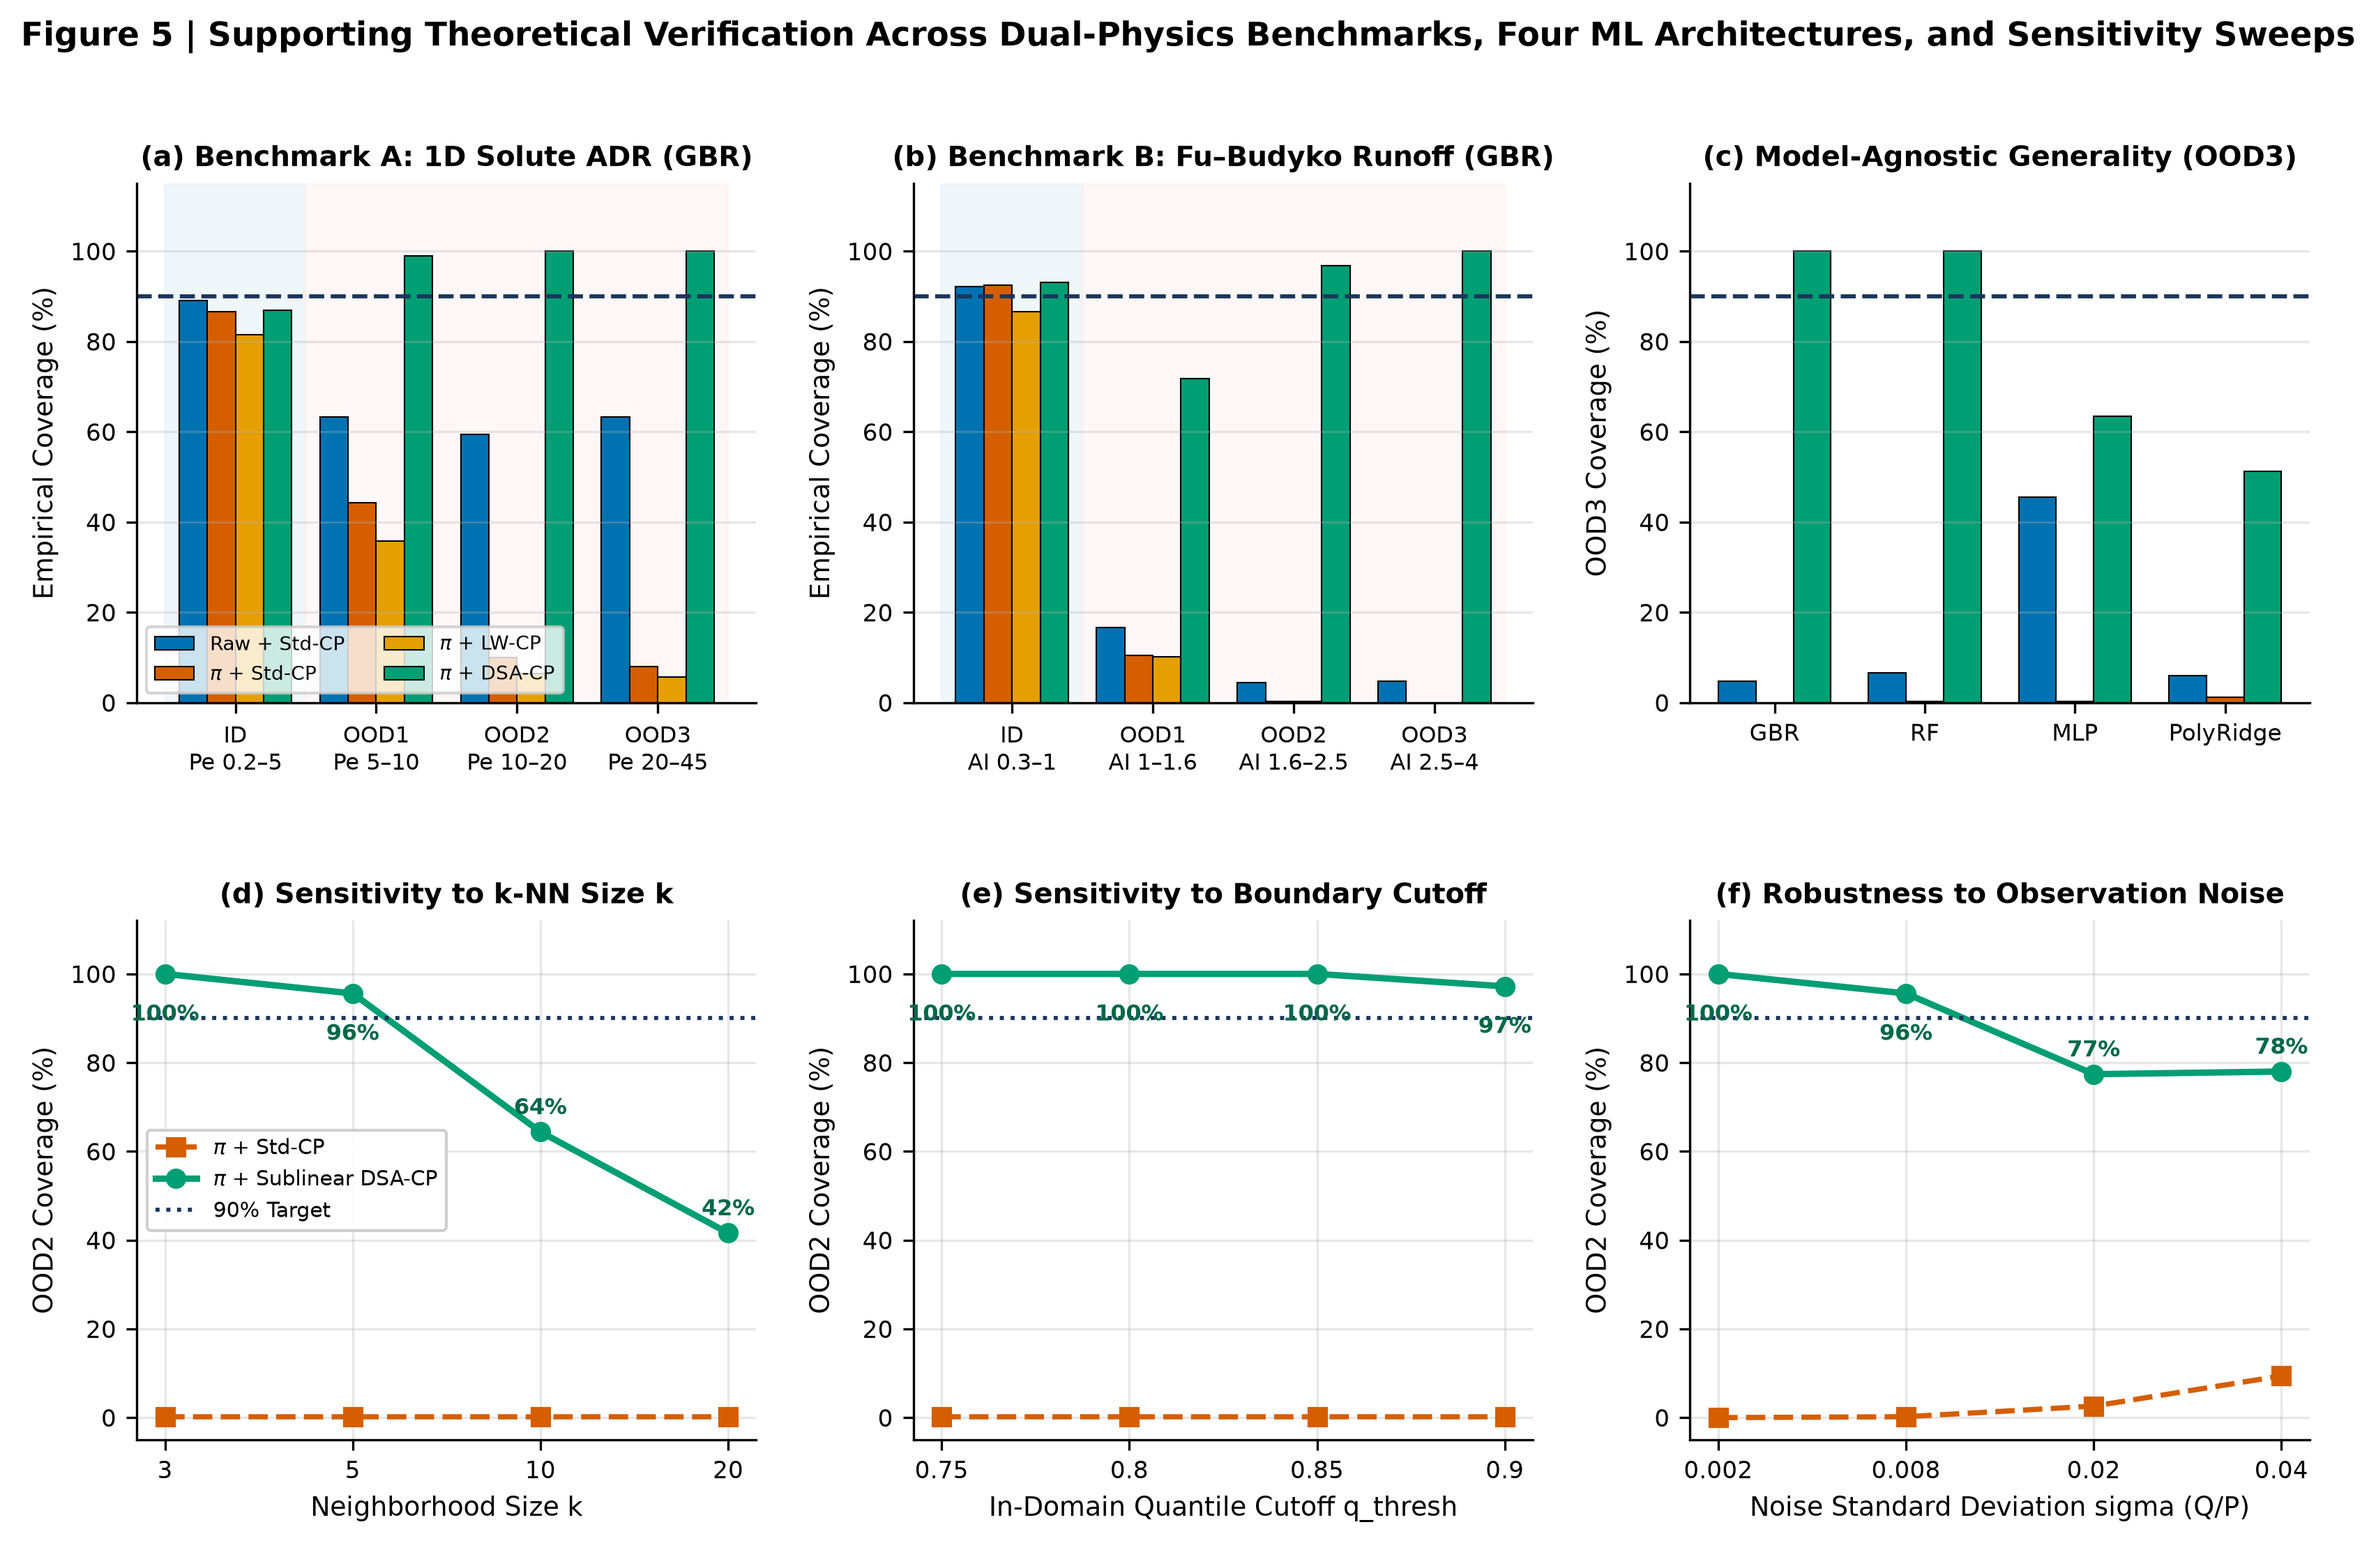
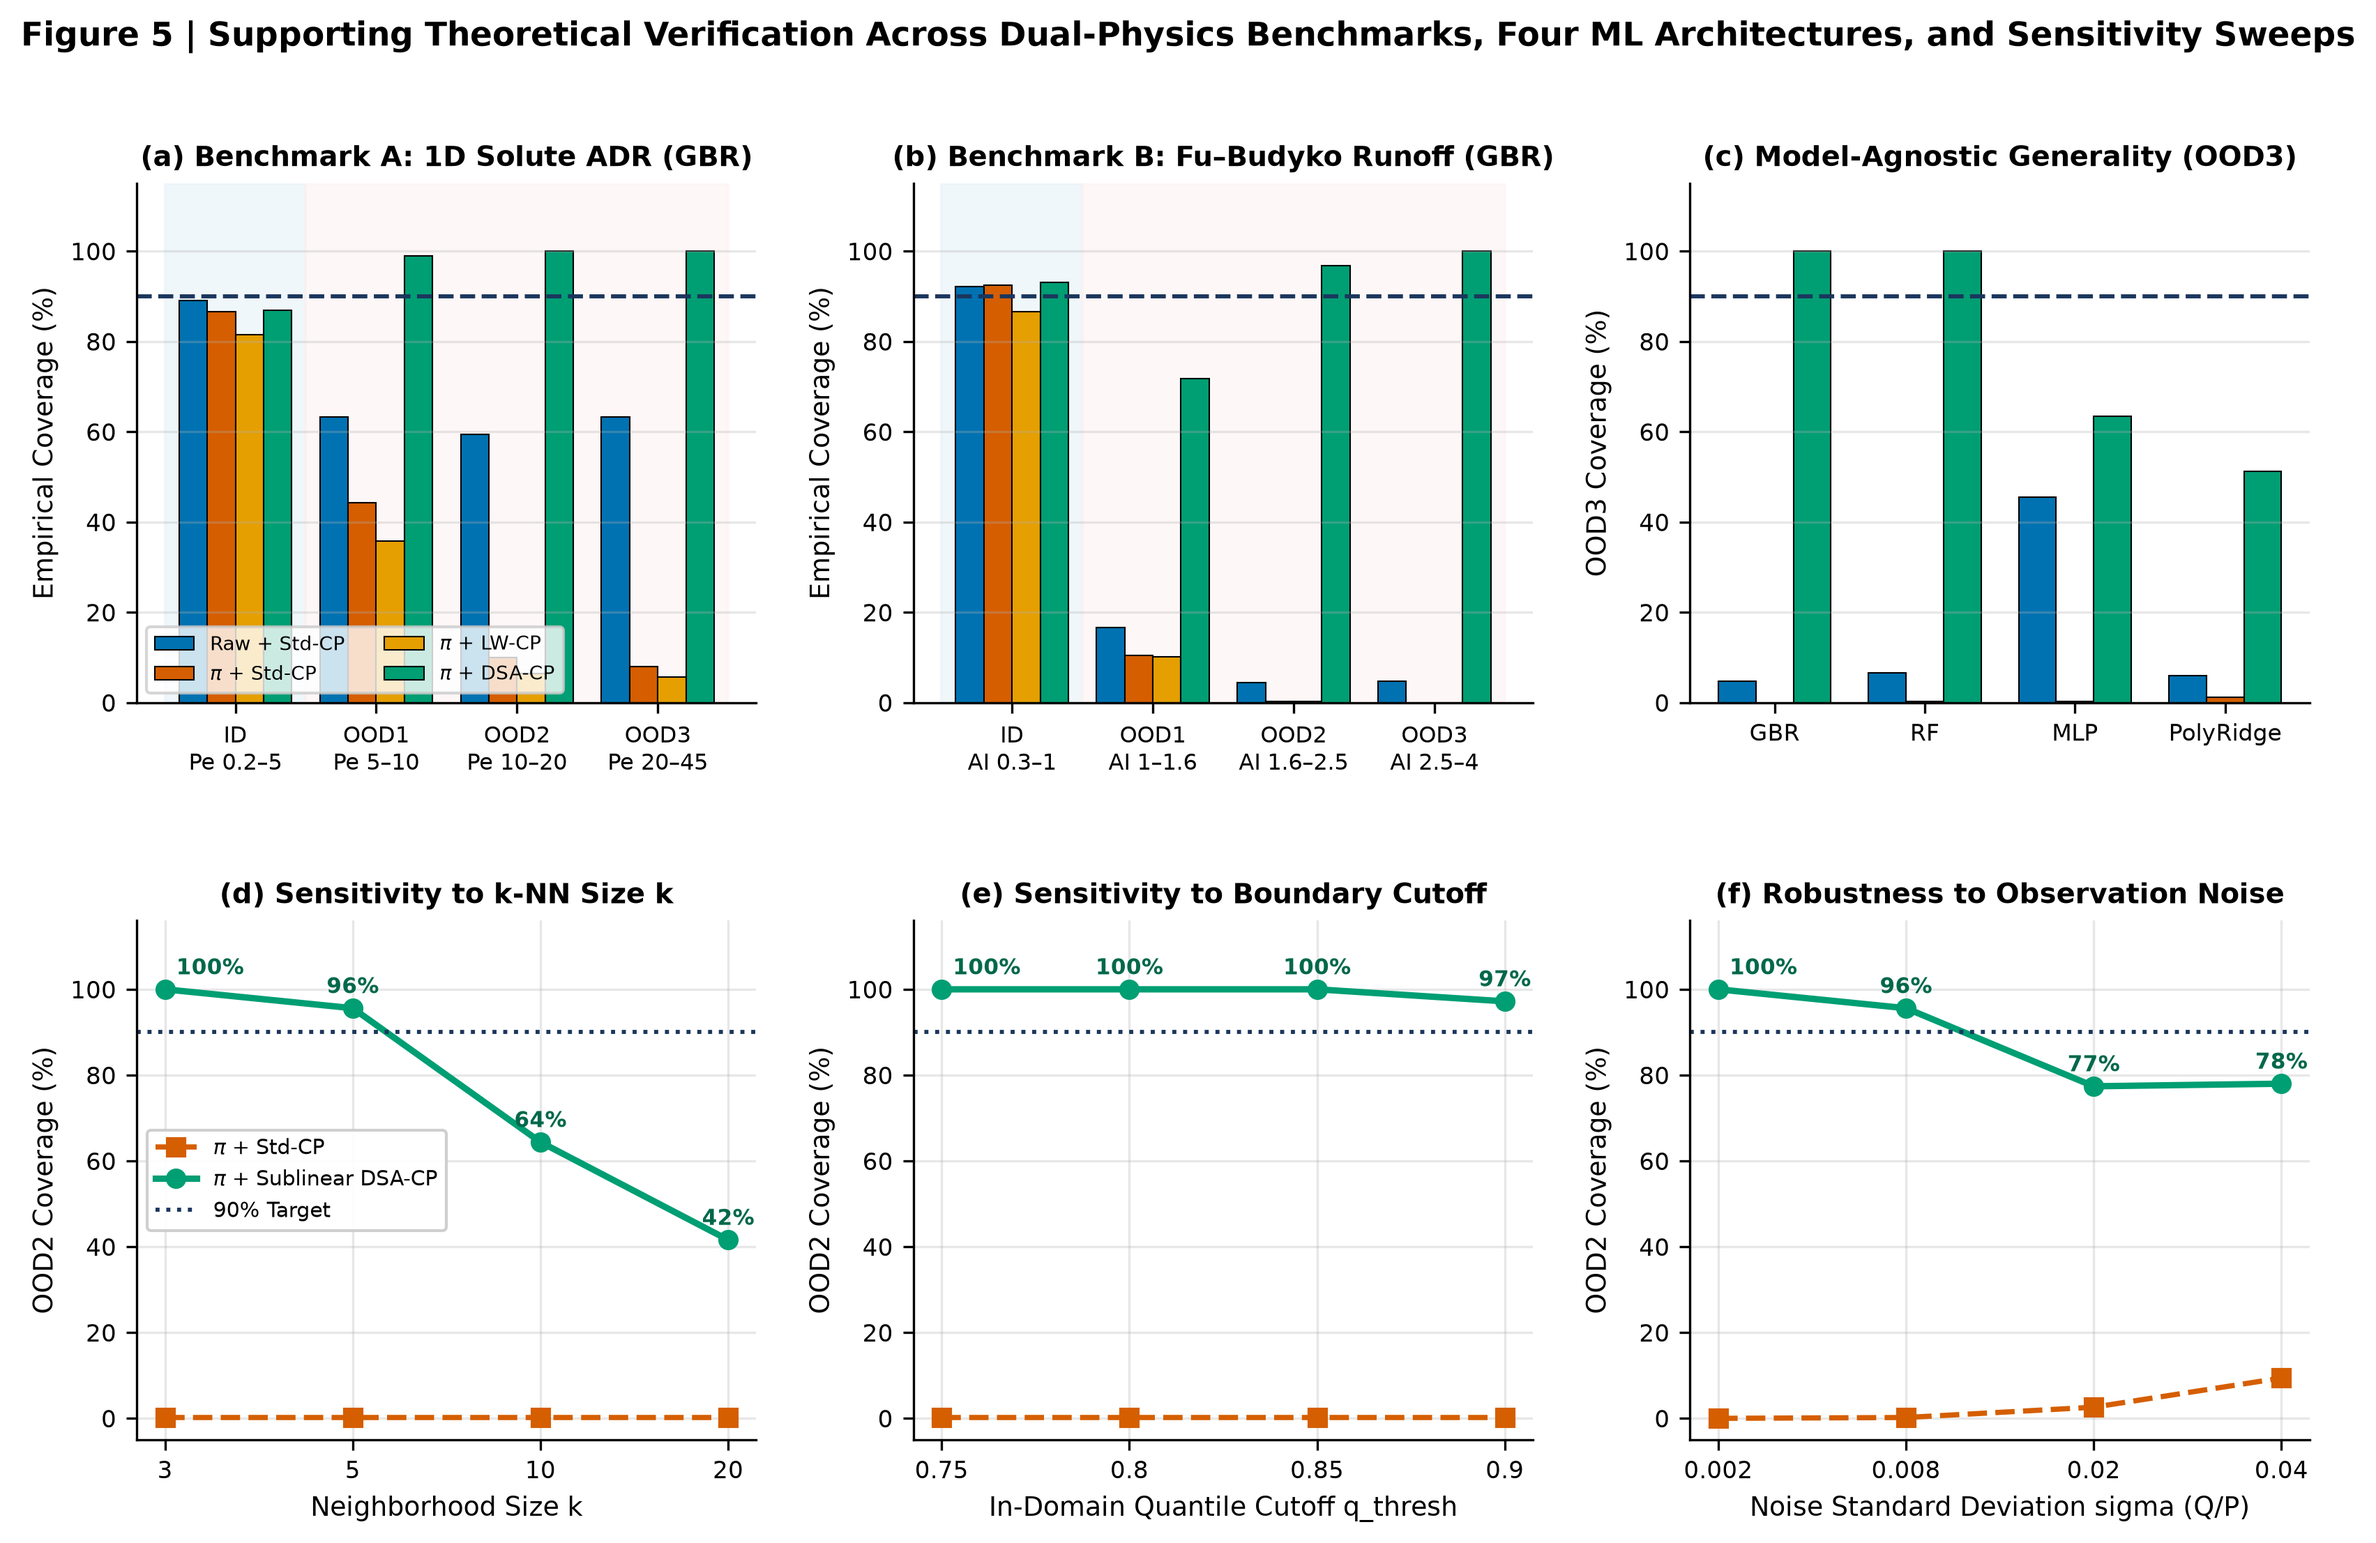
Refine figure labels, symbols, and quantile annotations

diff --git a/scripts/plot_main_figures.py b/scripts/plot_main_figures.py
@@ -109,7 +109,7 @@ def make_fig1_workflow(out_dir):
     for x_r in [6.15, 7.35, 8.55]:
         ax_a.annotate("", xy=(x_r, 3.08), xytext=(x_r, 4.25), arrowprops=dict(arrowstyle="->,head_width=0.18", lw=1.4, color=C_BLUE))
         ax_a.annotate("", xy=(x_r + 0.38, 4.35), xytext=(x_r + 0.38, 3.08), arrowprops=dict(arrowstyle="->,head_width=0.18", lw=1.4, color=C_RED, ls="--"))
-    ax_a.text(7.54, 4.52, "Summer P_t & ET0_t in Phase\n(Descriptive Seasonality SI_WL > 0.26)", ha="center", fontsize=6.5, fontweight="bold", color="#9C4221")
+    ax_a.text(7.54, 4.52, "Summer P_t & E_{p,t} in Phase\n(Descriptive Seasonality SI_WL > 0.26)", ha="center", fontsize=6.5, fontweight="bold", color="#9C4221")
     ax_a.text(7.54, 2.32, "Fast Within-Year Depletion\n(Delta S_t ~ 0)", ha="center", fontsize=6.6, fontweight="bold", color="#744210")
     ax_a.text(7.54, 0.78, "Annual Closure: Q_t/P_t ~ B(AI_t)\nPlains Regional Coverage = 93.6% (n=36)", ha="center", fontsize=6.4,
               bbox=dict(boxstyle="round,pad=0.18", facecolor="white", edgecolor=C_ORANGE, lw=0.9))
@@ -128,14 +128,14 @@ def make_fig1_workflow(out_dir):
     q_ijs_vis = q_c_vis * np.sqrt(1.0 + 1.8 * np.maximum(0, ai_x - 0.85)) + 0.16 * (1.0 / (1.0 + np.exp(-(ai_x - 0.95) * 4.5)))
 
     ax_b.fill_between(ai_x, surrogate_curve - q_ijs_vis, surrogate_curve + q_ijs_vis, color=C_TEAL, alpha=0.24, label="Reduced Pi* + IJS-CP (97.1% Cov, IS=0.764)")
-    ax_b.fill_between(ai_x, surrogate_curve - q_r_vis, surrogate_curve + q_r_vis, color=C_BLUE, alpha=0.18, label="Raw (P, ET0) + Std-CP (Wide q_raw = 0.340)")
-    ax_b.fill_between(ai_x, surrogate_curve - q_c_vis, surrogate_curve + q_c_vis, color=C_RED, alpha=0.38, label="Reduced Pi* + Std-CP (Compressed q_comp = 0.214)")
+    ax_b.fill_between(ai_x, surrogate_curve - q_r_vis, surrogate_curve + q_r_vis, color=C_BLUE, alpha=0.18, label="Raw (P, E_p) + Std-CP (Wide q_raw = 0.347)")
+    ax_b.fill_between(ai_x, surrogate_curve - q_c_vis, surrogate_curve + q_c_vis, color=C_RED, alpha=0.38, label="Reduced Pi* + Std-CP (Compressed q_comp = 0.208)")
 
     ax_b.plot(ai_x, true_curve, color="black", lw=2.3, label="True Shifted Process M*(Pi*) + Carry-Over")
     ax_b.plot(ai_x, surrogate_curve, color=C_RED, ls="--", lw=1.9, label="In-Domain Trained Surrogate f_hat(Pi*)")
 
     ax_b.annotate(
-        "Proposition 1 (Order-Stat Quantiles):\nPhysical completion shrinks ID\ncalibration quantile by 37%–48%\n(q_m0h=0.170, q_comp=0.214 < q_raw=0.340)",
+        "Proposition 1 (Order-Stat Quantiles):\nPhysical completion shrinks ID\ncalibration quantile by 37%–48%\n(q_m0h=0.170, q_comp=0.208 < q_raw=0.347)",
         xy=(0.56, surrogate_curve[42] + q_c_vis), xytext=(0.32, 0.06),
         fontsize=6.6, fontweight="bold", color=C_NAVY,
         bbox=dict(boxstyle="round,pad=0.20", facecolor="white", edgecolor=C_BLUE),
@@ -150,7 +150,7 @@ def make_fig1_workflow(out_dir):
     )
     ax_b.set_xlim(0.30, 2.40)
     ax_b.set_ylim(0.0, 1.02)
-    ax_b.set_xlabel("Dimensionless Aridity Coordinate AI = ET0 / P (-)")
+    ax_b.set_xlabel("Dimensionless Aridity Coordinate AI = E_p / P (-)")
     ax_b.set_ylabel("Runoff Response Q / P (-)")
     ax_b.set_title("(b) Mathematical Mechanism: ID Compression vs. OOD Under-Coverage", loc="left", pad=6)
     ax_b.legend(loc="upper right", fontsize=6.5, framealpha=0.94)
@@ -180,15 +180,15 @@ def make_fig1_workflow(out_dir):
         "", xy=p_ood, xytext=p_proj,
         arrowprops=dict(arrowstyle="->,head_width=0.28,head_length=0.26", lw=2.3, color=C_RED)
     )
-    ax_c.text(1.24, 0.30, r"Path Integral $\left|\int_{\Pi_{\mathrm{proj}}}^{\Pi} \nabla \mathcal{M}_0(\mathbf{u})\,\mathrm{d}\mathbf{u}\right|$",
+    ax_c.text(1.24, 0.30, r"Analytical Drift $|M_0(\Pi) - M_0(\Pi_{\mathrm{proj}})|$",
               rotation=15, fontsize=7.2, fontweight="bold", color="#9B2C2C",
               bbox=dict(boxstyle="round,pad=0.16", facecolor="white", edgecolor=C_RED, alpha=0.92))
 
     ax_c.text(
         0.86, -0.33,
-        "Proposition 3 (Tuning-Free IJS-CP Heuristic):\n"
+        "Tuning-Free IJS-CP Adjustment:\n"
         "Delta_M(Pi) = |M0(Pi) - M0(Pi_proj)| >= 0\n"
-        "q_IJS = q_Pi*sqrt(1 + excess_d) + excess_Delta_M",
+        "q_IJS = q_Pi*sqrt(1 + [d_tilde - 1]_+) + [Delta_M - Delta_M,cal]_+",
         fontsize=6.8, fontweight="bold", color="#1A202C",
         bbox=dict(boxstyle="round,pad=0.22", facecolor="#FFFFF0", edgecolor=C_TEAL, lw=1.2)
     )
@@ -196,7 +196,7 @@ def make_fig1_workflow(out_dir):
     ax_c.set_ylim(-0.38, 0.55)
     ax_c.set_xlabel("Dimensionless Aridity Coordinate AI_t (-)")
     ax_c.set_ylabel("Antecedent Departure Coordinate Pi_{M,t} (-)")
-    ax_c.set_title("(c) Tuning-Free Heuristic: Jacobian Manifold Transport", loc="left", pad=6)
+    ax_c.set_title("(c) Tuning-Free Analytical Baseline-Drift Adjustment", loc="left", pad=6)
     ax_c.legend(loc="upper left", fontsize=6.8, framealpha=0.92)
 
     ax_d = fig.add_subplot(gs[1, 1])
@@ -218,7 +218,7 @@ def make_fig1_workflow(out_dir):
          "  by 21.8% on Pure 60-Direct Refit (0.2687 -> 0.2100, IJS 95.1% Cov, IS=0.841)."),
         (0.08, "#FAF5FF", C_PURPLE,
          "SCENARIO 3: Strictly Causal Temporal Split (2005–2015 -> 2016–2024, n=545)",
-         "• Fit-Isolated Protocol: Uses idx_fh (n=200, <=2015) only; OLS c_M=+0.875, c_D=-0.186\n"
+         "• Fit-Isolated Protocol: Frozen <=2015 humid fit (n=200); OLS c_M=+0.875, c_D=-0.186\n"
          "• Result: S3B Pure Met (RMSE=0.2183 vs Raw 0.2355 [-7.3%] & AI 0.3422 [-36.2%]);\n"
          "  S3A OLS M0_hyst achieves RMSE=0.1106 (vs 0.1139 Persistence) with 96.1% Jac-CP Cov."),
     ]
@@ -231,7 +231,7 @@ def make_fig1_workflow(out_dir):
         ax_d.text(0.28, y0 + 1.18, t_body, ha="left", va="top", fontsize=6.9, color="#1A202C", linespacing=1.22)
 
     fig.suptitle(
-        "Figure 1 | Physical Mechanism, Quantile Compression, Jacobian Manifold Transport, and Three-Scenario Validation (108 USGS Basins)",
+        "Figure 1 | Physical Mechanism, Quantile Compression, Analytical Baseline-Drift Adjustment, and Three-Scenario Validation (108 USGS Basins)",
         fontsize=11.0, fontweight="bold", y=0.98
     )
     path = os.path.join(os.path.dirname(out_dir), "figures", "fig1_framework.png")
@@ -438,7 +438,7 @@ def make_fig2_spatial_and_process(out_dir):
         arrowprops=dict(arrowstyle="->", lw=1.1, color=C_BLUE)
     )
     ax_mem.annotate(
-        "High-Departure Regime (|Pi_M| > 0.120)\n60-Direct rho=0.577 | 48-IDW rho=0.579\nMatched F2 Asymmetry Tests:\n• Basin-w_i: rho = -0.244 vs Null -0.008\n• 60-Direct OOD: rho_wi = -0.273 vs Null -0.012",
+        "High-Departure Regime (|Pi_M| > 0.120)\n60-Direct rho=0.577 | 48-IDW rho=0.579\nMatched Null Asymmetry Tests:\n• Basin-w_i: rho = -0.244 vs Null -0.008\n• 60-Direct OOD: rho_wi = -0.273 vs Null -0.012",
         xy=(0.28, 0.34), xytext=(0.140, 0.45),
         fontsize=6.2, fontweight="bold", color="#9B2C2C",
         bbox=dict(boxstyle="round,pad=0.18", facecolor=C_LIGHT_RED, edgecolor=C_RED),
@@ -587,7 +587,7 @@ def make_fig3_phase_and_hydrographs(out_dir):
     cbar_ph.set_label("Mean Error |Q/P - f(AI)|")
     ax_ph.set_xlim(0.35, 2.8)
     ax_ph.set_ylim(0.0, 0.58)
-    ax_ph.set_xlabel("Climatic Aridity Index AI = ET0 / P (-)")
+    ax_ph.set_xlabel("Climatic Aridity Index AI = E_p / P (-)")
     ax_ph.set_ylabel(r"Antecedent Budyko Departure $|\Pi_M|$ (-)")
     ax_ph.set_title("(a) 2D Phase Diagram in (AI, |Pi_M|) Space")
     ax_ph.legend(loc="upper right", fontsize=7.2, framealpha=0.92)
@@ -595,15 +595,18 @@ def make_fig3_phase_and_hydrographs(out_dir):
     ax_kd = fig.add_subplot(gs[1, 0])
     X_raw_id = np.array([[r["P"], r["Ep"]] for r in id_recs])
     m_raw = GradientBoostingRegressor(n_estimators=100, max_depth=3, random_state=42).fit(X_raw_id[idx_f], y_id[idx_f])
-    res_raw_cal = np.abs(y_id[idx_c] - m_raw.predict(X_raw_id[idx_c]))
-    res_pi1_cal = np.abs(y_id[idx_c] - m_pi1.predict(X_pi1_id[idx_c]))
-    res_pi3_cal = np.abs(y_id[idx_c] - m_pi3.predict(X_pi3_id[idx_c]))
+    res_raw_cal = np.abs(y_id[idx_c] - np.clip(m_raw.predict(X_raw_id[idx_c]), 0, 1))
+    res_pi1_cal = np.abs(y_id[idx_c] - np.clip(m_pi1.predict(X_pi1_id[idx_c]), 0, 1))
+    res_pi3_cal = np.abs(y_id[idx_c] - np.clip(m_pi3.predict(X_pi3_id[idx_c]), 0, 1))
+    q_pi1 = conformal_order_quantile(res_pi1_cal, 0.10)
+    q_pi3 = conformal_order_quantile(res_pi3_cal, 0.10)
+    print(f"Fig3b Quantiles -> q_comp={q_pi3:.3f}, q_inc={q_pi1:.3f}, q_raw={conformal_order_quantile(res_raw_cal, 0.10):.3f}")
     q_raw_cal = conformal_order_quantile(res_raw_cal, 0.10)
 
     xg = np.linspace(0, 0.48, 300)
     for arr, col, lbl, qv in [
         (res_pi1_cal, C_ORANGE, f"Steady Pi (AI): q_inc = {q_pi1:.3f}", q_pi1),
-        (res_raw_cal, C_BLUE, f"Raw (P, ET0): q_raw = {q_raw_cal:.3f}", q_raw_cal),
+        (res_raw_cal, C_BLUE, f"Raw (P, E_p): q_raw = {q_raw_cal:.3f}", q_raw_cal),
         (res_pi3_cal, C_RED, f"Reduced Pi* (+Pi_M): q_comp = {q_pi3:.3f}", q_pi3),
     ]:
         kde = gaussian_kde(arr, bw_method=0.35)

diff --git a/scripts/plot_synthetic_figure.py b/scripts/plot_synthetic_figure.py
@@ -738,10 +738,10 @@ def make_fig5_benchmarks_and_generality(out_dir):
         ax.plot(xv, y_dsa, marker="o", markersize=6, ls="-", lw=2.2, color=C_TEAL, label=r"$\pi$ + Sublinear DSA-CP")
         ax.axhline(90.0, color=C_NAVY, ls=":", lw=1.4, label="90% Target")
         for i, val in enumerate(y_dsa):
-            ax.text(i, val - 10.5 if val > 85 else val + 4.0, f"{val:.0f}%", ha="center", fontsize=7.6, fontweight="bold", color="#00684A")
+            ax.text(i + (0.06 if i == 0 else 0.0), val + 3.5, f"{val:.0f}%", ha="left" if i == 0 else "center", fontsize=7.4, fontweight="bold", color="#00684A")
         ax.set_xlabel(xlabel)
         ax.set_ylabel("OOD2 Coverage (%)")
-        ax.set_ylim(-5, 112)
+        ax.set_ylim(-5, 116)
         ax.set_title(title)
         ax.grid(alpha=0.3)
         if sw == "k_neighbors":
